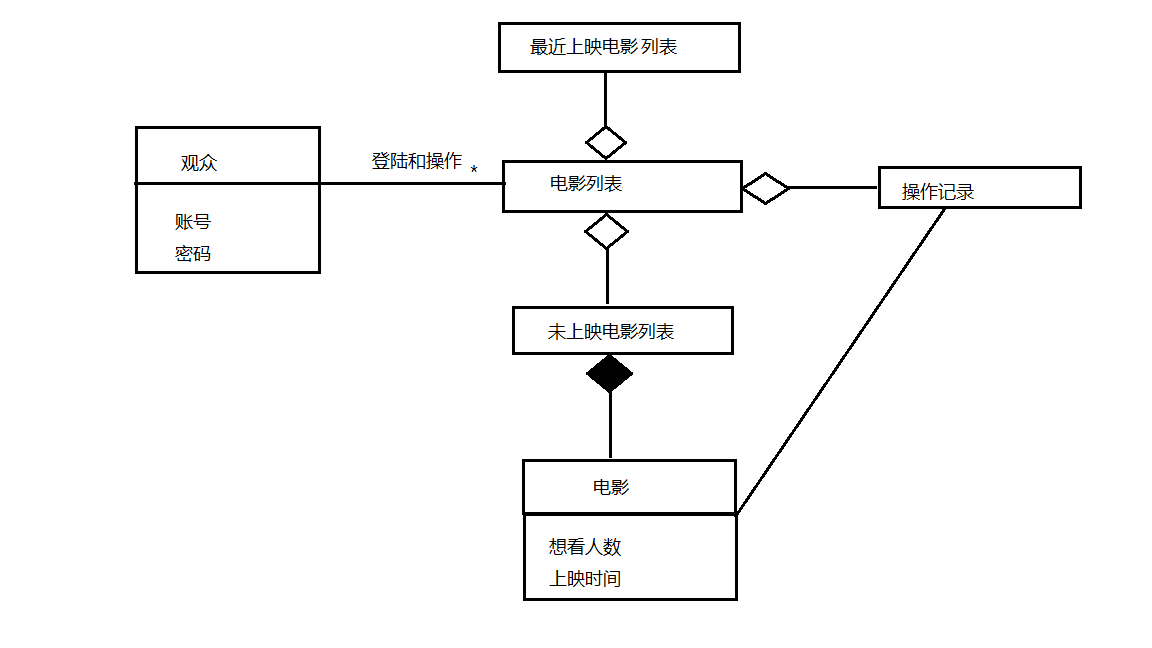
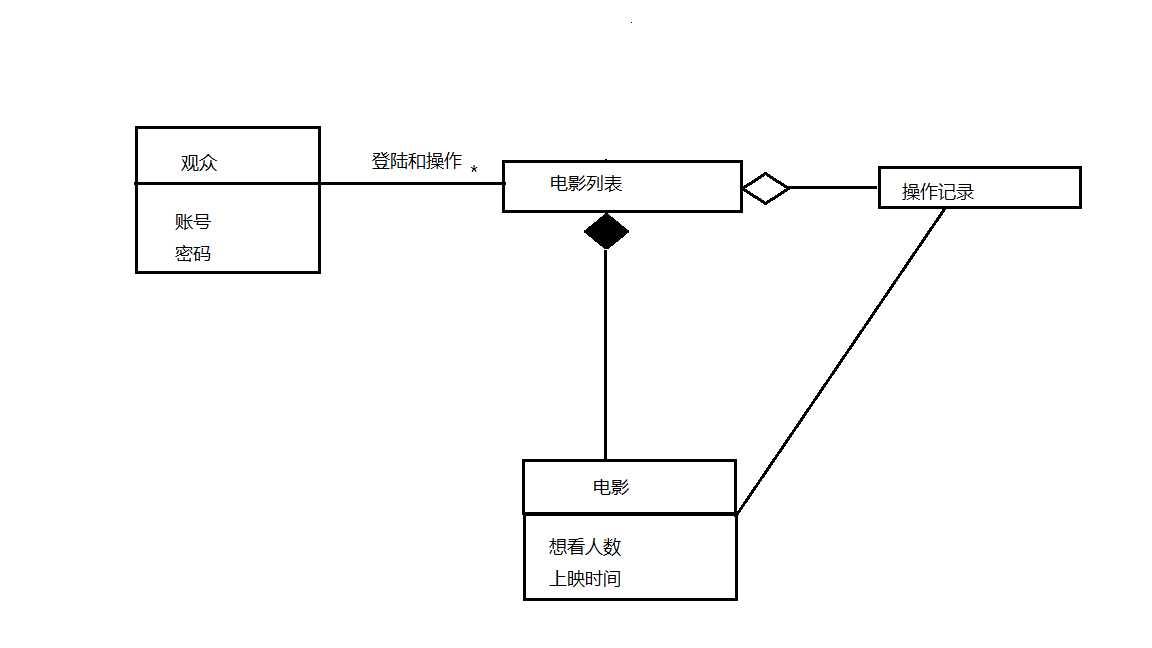
未上映列表删除

Changed region(s): [[0.4375, 0.3395, 0.6562, 0.7099], [0.4375, 0.0309, 0.6562, 0.1235], [0.5, 0.1852, 0.5312, 0.2469]]

diff --git a/项目文档/项目文档.md b/项目文档/项目文档.md
@@ -121,7 +121,7 @@
 
 - 最后一次更新者：石創烽
 
-- 更新日期：2019.03.19
+- 更新日期：2019.03.20
 
 - 参与者： 观众，目标是获取想看的电影信息，进行将来的排版
 
@@ -133,17 +133,16 @@
 
 - 正常流程：1.观众登录该软件
                    2.打开电影列表界面
-                   3.进入未上映的电影列表
-                   4.如果发现感兴趣的电影，可以点击查看电影详情
-                   5.看完电影详情依旧感兴趣的话，可以点击星号标记
-                   6.系统进行信息更改，该电影想看人数+1
-                   7.返回到未上映电影列表
-                   8.重复3~7，直到观众不想再标记任何电影
+                   3.如果发现感兴趣的电影，可以点击查看电影详情
+                   4.看完电影详情依旧感兴趣的话，可以点击星号标记
+                   5.系统进行信息更改，该电影想看人数+1
+                   6.返回到电影列表
+                   7.重复3~7，直到观众不想再标记任何电影
                    9.退至主界面
 
 - 扩展流程：1a.登录不了（密码错误或者账户名错误）
-                      可以点击忘记密码或注册账号
-                 5a.误点标记
+                        可以点击忘记密码或注册账号
+                   4a.误点标记
                         可以再点一次取消标记
                      
 
